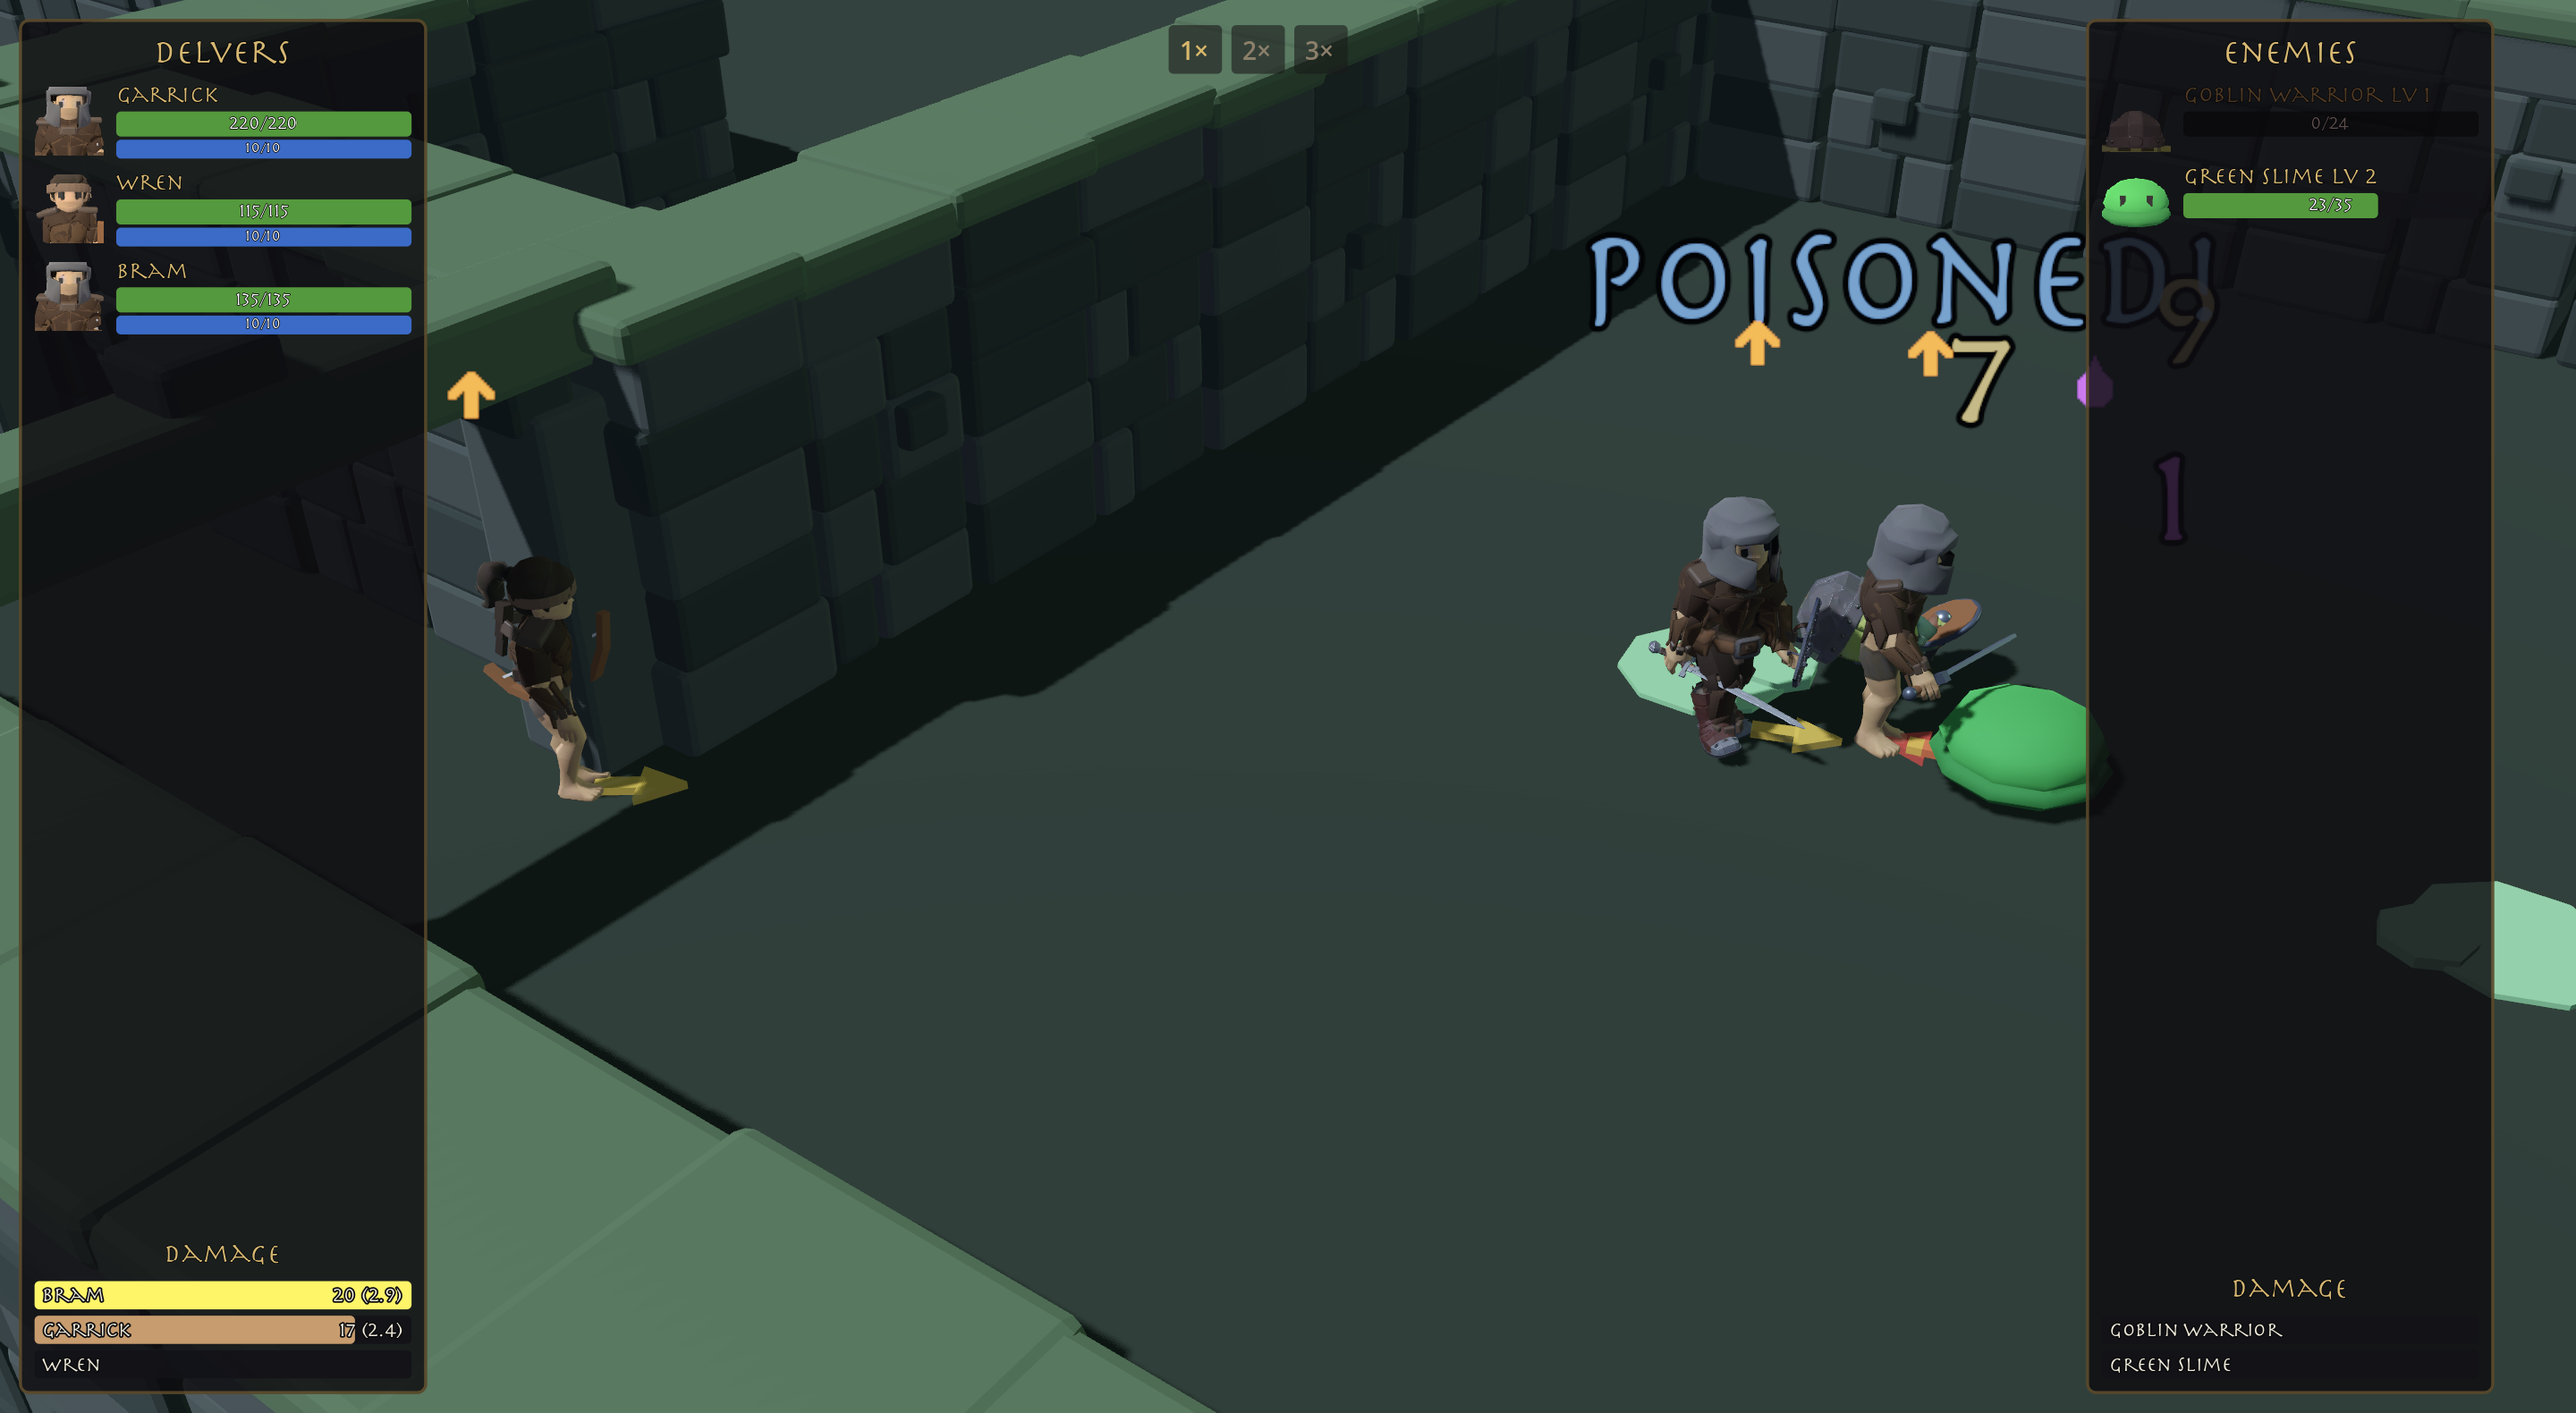
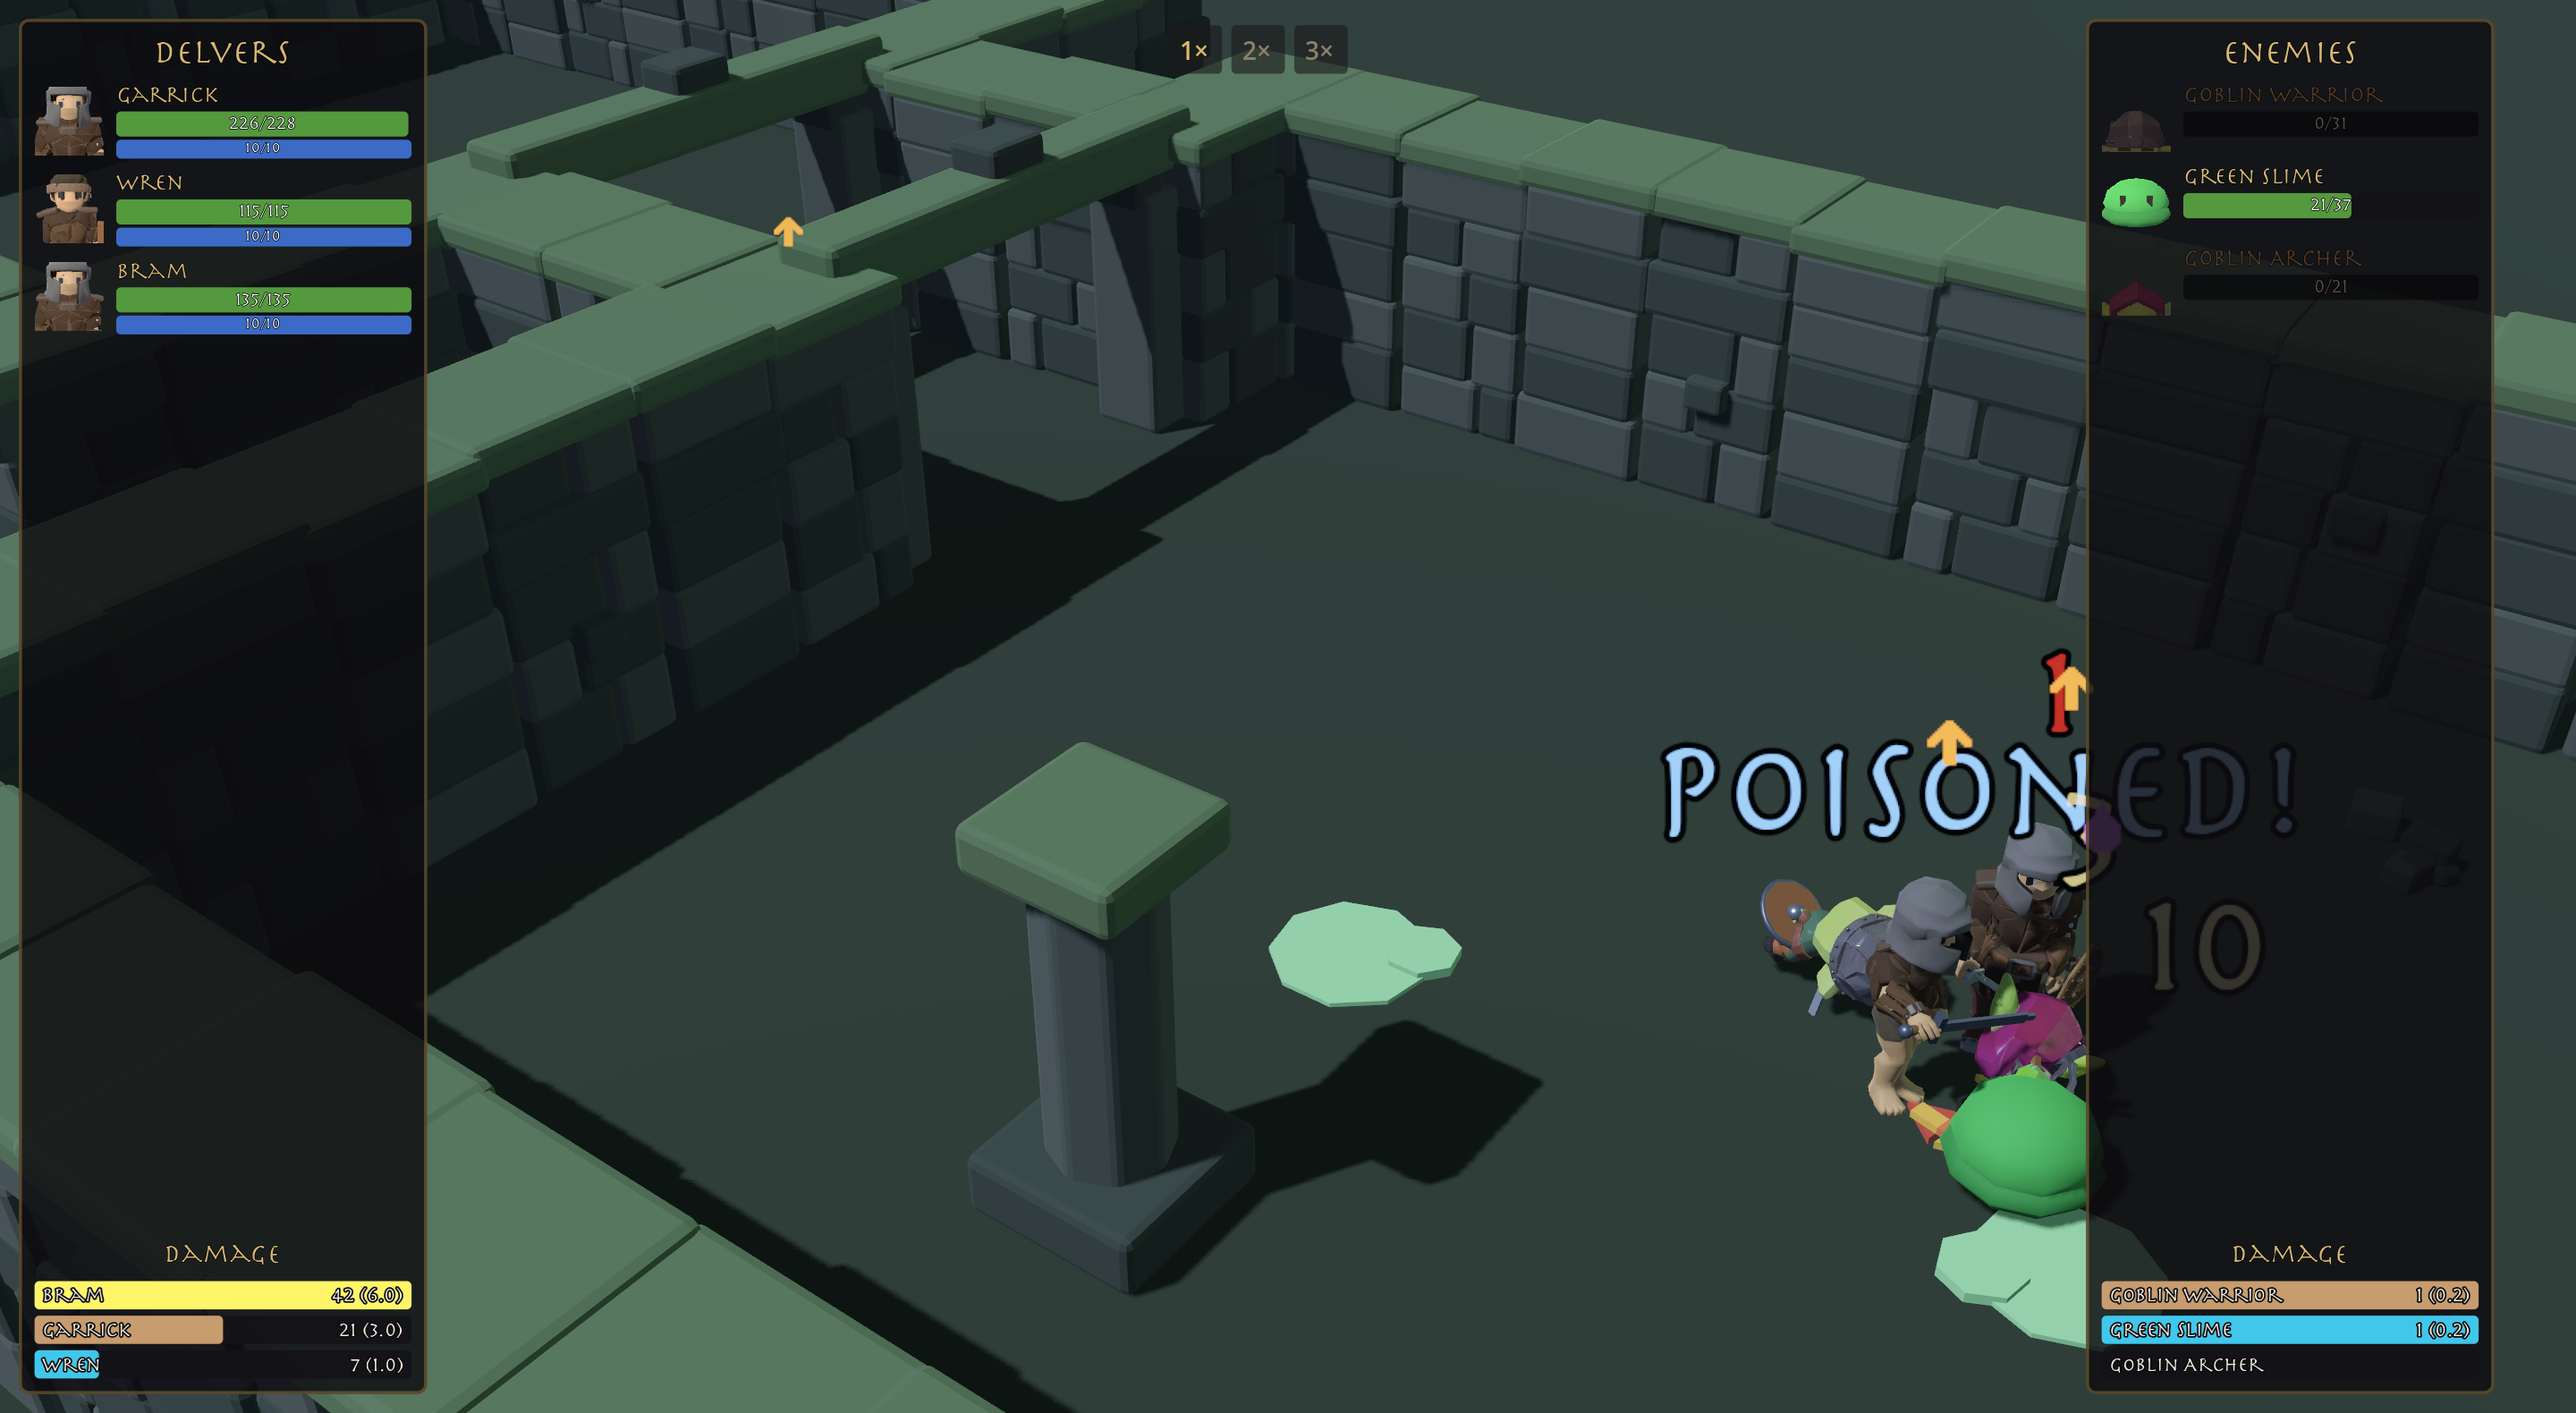
The enemy panel consolidates: one row per kind, pooled health.
The unit list groups by enemy kind - Nest Spiderling x15 over one
shared health bar summing the pack's pool, the count tracking the
living, the row greying only when the last one falls and fading
after. Only wakened enemies ever appear; leash resets clear their
rows. Heroes keep their individual rows, bars and mana.

Verified live: Goblin Warrior x4 in the meter, a pooled 0/90 slime
group in the list, speed buttons and the Chieftain's Hold banner all
in one frame. 46/46 tests.

diff --git a/CHANGELOG.md b/CHANGELOG.md
@@ -13,6 +13,10 @@ Notable changes per pull request. Newest first.
   full, and take up their posts again (PACK_RESET events; the panel
   forgets them, the music relaxes, and they will pull again). Charging
   past a pack no longer leaves it trailing you across the dungeon.
+- **Consolidated enemy unit list**: the panel shows one row per
+  enemy KIND with the pack's pooled health as its bar ("Nest
+  Spiderling ×15" over a shared 400/600) - the count tracks the
+  living, and only wakened enemies appear at all.
 - **Consolidated enemy damage meters**: one row per enemy KIND -
   "Nest Spiderling ×12" with total and per-head average - instead of
   a hundred entries converging on noise. Heroes keep individual rows
